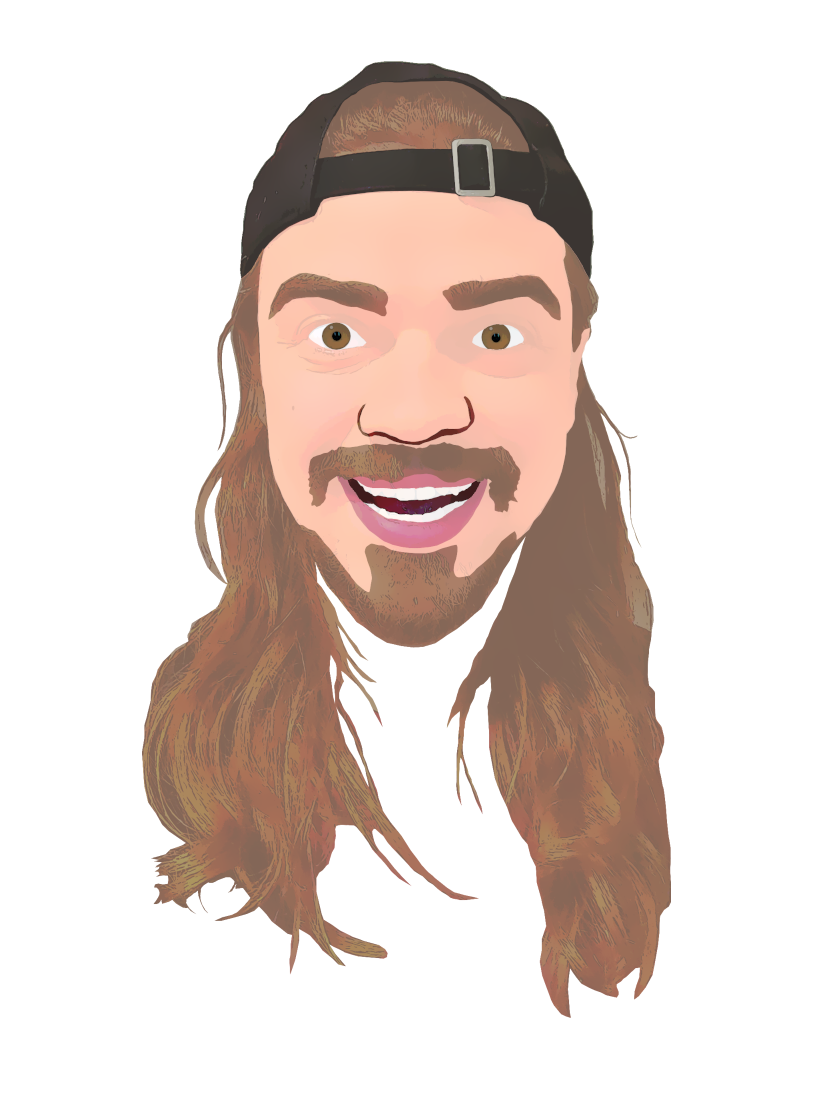
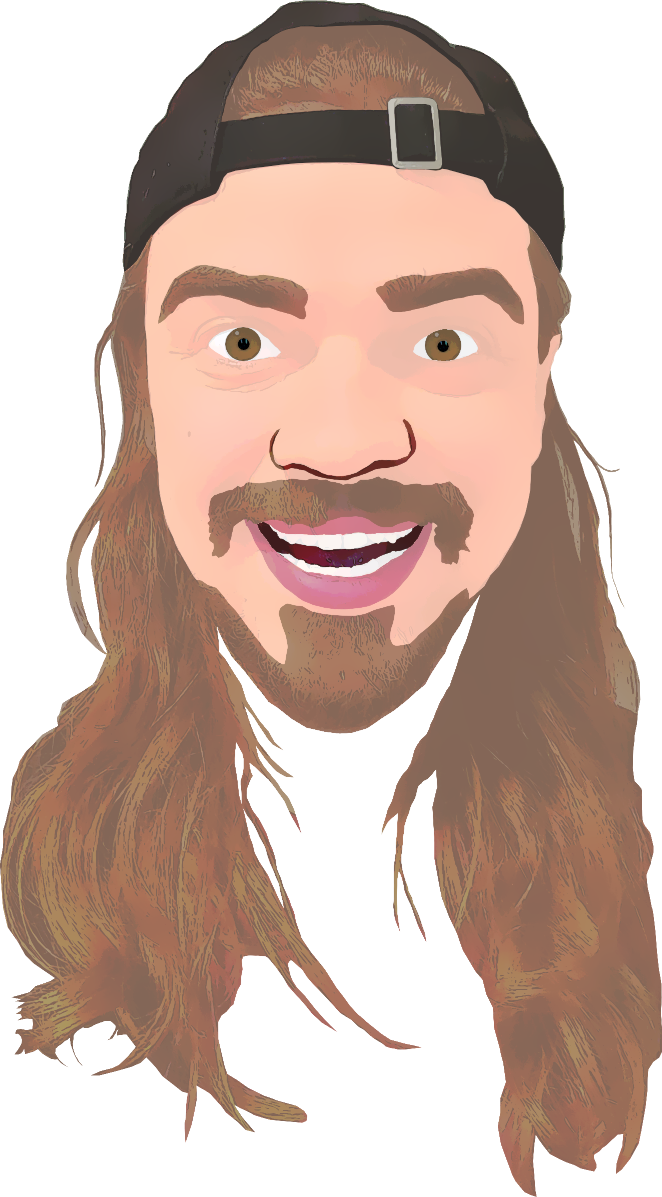
Fix portrait position

diff --git a/static/style.css b/static/style.css
@@ -62,6 +62,7 @@ h1 {
   display: flex;
   flex-direction: row;
   justify-content: space-between;
+  align-items: flex-start;
   margin-top: 10vh;
   height: 100%;
 }
@@ -70,6 +71,43 @@ h1 {
   display: flex;
   flex-direction: column;
   font-family: var(--font-heading);
+}
+
+.speech-bubble.panel {
+  width: 22vw;
+  height: 15vh;
+  position: relative;
+  border: 2px solid black;
+  border-radius: 1.5em;
+  /* display:none; */
+}
+
+/* black triangle that points right toward portrait, becomes border */
+.speech-bubble.panel:before {
+  content: "";
+  position: absolute;
+  right: -1.4em;
+  top: 50%;
+  transform: translateY(-50%);
+  width: 0;
+  height: 0;
+  border-top: 13px solid transparent;
+  border-bottom: 13px solid transparent;
+  border-left: 20px solid black;
+}
+
+/* white triangle that sits on top of the black triangle */
+.speech-bubble.panel:after {
+  content: "";
+  position: absolute;
+  right: -1em;
+  top: 50%;
+  transform: translateY(-50%);
+  width: 0;
+  height: 0;
+  border-top: 10px solid transparent;
+  border-bottom: 10px solid transparent;
+  border-left: 17px solid var(--bone);
 }
 
 .panel {
@@ -157,19 +195,20 @@ h1 {
 
 .broken-circle {
   position: absolute;
-  /* right: -10px; */
-  /* top: 5vh; */
 }
 
 .portrait-container {
+  position: fixed;
+  top: 1em;
+  right: 3em;
   display: flex;
-  flex-direction: column;
-  justify-content: space-around;
+  flex-direction: row;
+  align-items: center;
+  z-index: 10;
 }
 
 .portrait {
-  height: 350px;
-  margin: auto;
+  height: clamp(120px, 18vw, 250px);
 }
 
 .home-content {
@@ -247,8 +286,13 @@ h1 {
   animation: wobble 4s ease-in-out infinite;
 }
 
-.stamp:hover {
-
+.stamp:hover::after {
+  content: "";
+  background: rgba(0, 0, 0, 0.1);
+  width: 100%;
+  height: 100%;
+  position: absolute;
+  border-radius: inherit;
 }
 
 .stamp-1 { animation-delay: 0s; }

diff --git a/templates/index.html b/templates/index.html
@@ -9,6 +9,8 @@
           <a href="/contact" class="btn btn-contact">LET'S CHAT</a>
       </div>
       <div class="portrait-container">
+        <div class="speech-bubble panel">
+        </div>
         <img class="portrait" src="/images/kaleb-cartoon.png" />
       </div>
   </section>